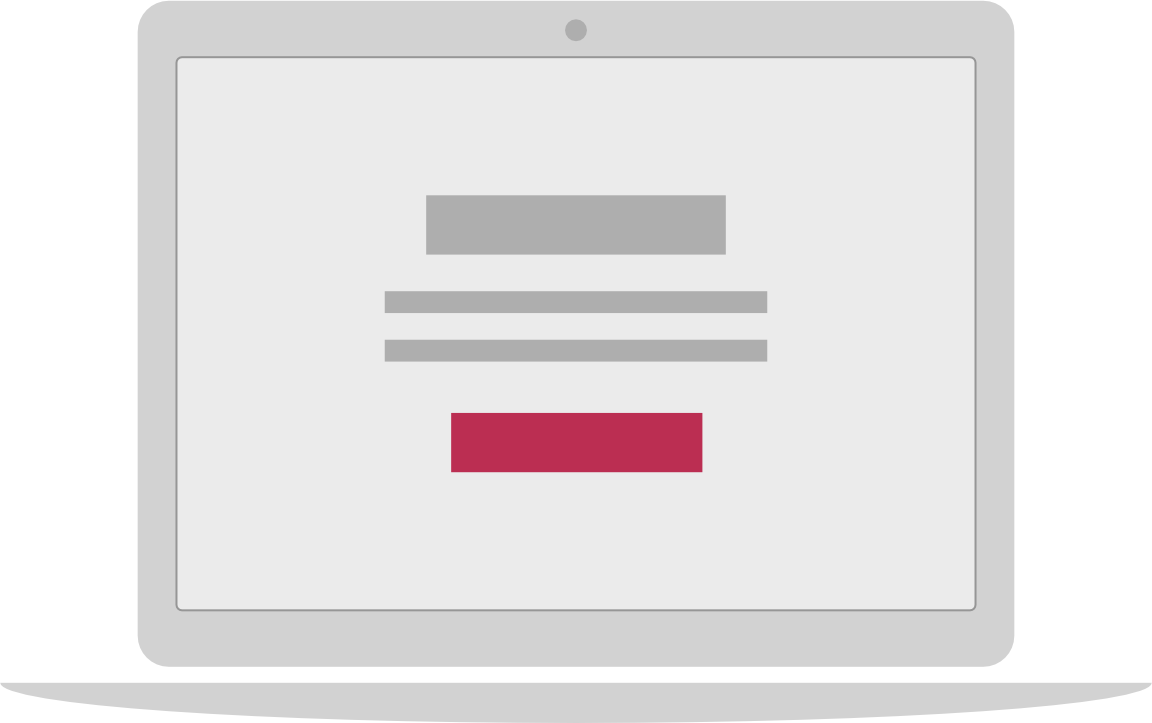
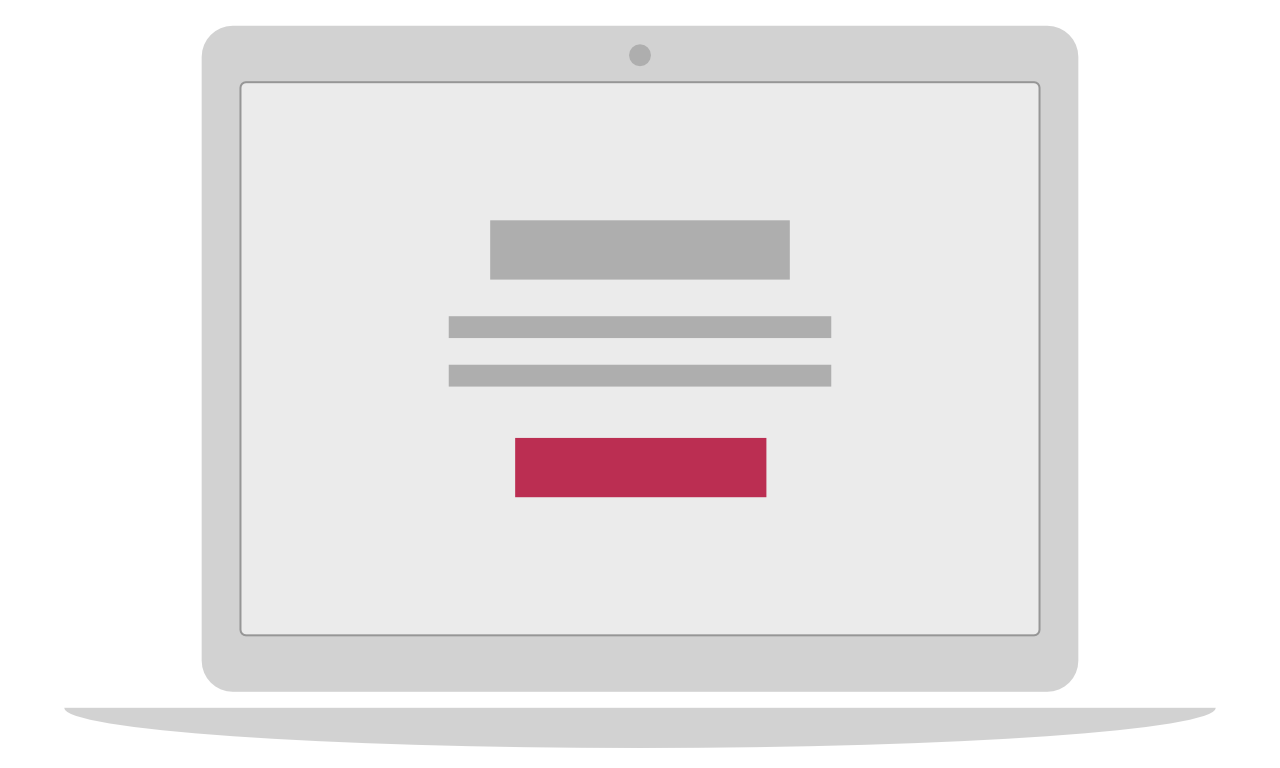
Se cambio el tipo de fuente. Se cambio la imagen del iphone y de la laptop. Se agregaron los iconos faltantes a la lista de cada card.

diff --git a/SegundoTrimestre/ActividadRepaso/css/style.css b/SegundoTrimestre/ActividadRepaso/css/style.css
@@ -2,8 +2,7 @@
 
 body{
     margin: 0;
-    font-family: -apple-system, BlinkMacSystemFont, 'Segoe UI', Roboto, Oxygen, Ubuntu, Cantarell, 'Open Sans', 'Helvetica Neue', sans-serif;
-
+    font-family: "Open Sans", "Segoe UI", "Proxima Nova", "Open Sans", Roboto, Helvetica, -apple-system, system-ui, BlinkMacSystemFont, sans-serif;
 }
 
 a{
@@ -59,7 +58,7 @@ a{
 
 .header .headerImg .headerImgLeft{
     width: 50%;
-    height: 455px;
+    height: 456px;
     padding-left: 180px;
     padding-right: 20px;
     padding-top: 142px;
@@ -68,15 +67,15 @@ a{
 }
 
 .header .headerImg .headerImgLeft h1{
-    font-size: 77px;
+    font-size: 75px;
     color: #fff;
     margin-top: 15px;
     margin-bottom: 45px;
-    line-height: 85px;
+    line-height: 79px;
 }
 
 .header .headerImg .headerImgLeft p{
-    font-size: 21px;
+    font-size: 20px;
     color: #fff;
     margin-top: 0;
     margin-bottom: 40px;
@@ -92,6 +91,7 @@ a{
 .header .headerImg .headerImgLeft .headerImgButtons .buttonLeft{
     width: 53%;
     font-size: 17px;
+    font-weight: bold;
     padding: 13px 0px;
     border-radius: 6px;
     border: 2px #fff solid;
@@ -138,7 +138,7 @@ a{
 } 
 
 .contain .containSection1 h2{
-    font-size: 60px;
+    font-size: 56px;
     color: #f41486;
     margin-top: 0;
     text-align: center;
@@ -155,11 +155,11 @@ a{
 }
 
 .contain .containSection1 .containSection1Contain .containRight{
-    width: 35%;
+    width: 39%;
 }
 
 .contain .containSection1 .containSection1Contain .containRight .subContainRight1 h3{
-    font-size: 42px;
+    font-size: 40px;
     font-weight: normal;
     color: #c72878;
     margin-top: 0;
@@ -168,11 +168,11 @@ a{
 
 .contain .containSection1 .containSection1Contain .containRight .subContainRight1 p{
     color: #3f3f3f;
-    font-size: 17px;
+    font-size: 16px;
 }
 
 .contain .containSection1 .containSection1Contain .containRight .subContainRight2 h3{
-    font-size: 22px;
+    font-size: 21px;
     font-weight: normal;
     color: #f1228b;
     margin-bottom: 0;
@@ -182,10 +182,11 @@ a{
     padding: 0;
     list-style: none;
     color: #3f3f3f;
-    font-size: 17px;
+    font-size: 16px;
     list-style-image: url("../image/cheque.png");
     list-style-position: inside;
     margin-top: 10px;
+    line-height: 26px;
 }
 
  /* CONTENIDO SECCION 2 */
@@ -197,9 +198,9 @@ a{
  }
 
  .contain .containSection2 h2{
-     font-size: 58px;
+     font-size: 56px;
      margin-top: 0;
-     margin-bottom: 34px;
+     margin-bottom: 32px;
  }
 
  .contain .containSection2 p{
@@ -207,7 +208,8 @@ a{
      margin-bottom: 55px;
      padding: 0 130px;
      color: #f1f2f7;
-     font-size: 17px;
+     font-size: 16px;
+     line-height: 24px;
  }
 
  .contain .containSection2 .containSection2Cards{
@@ -232,7 +234,7 @@ a{
  .contain .containSection2 .containSection2Cards .card .cardHeader h4{
      margin-top: 0px;
      font-size: 21px;
-     
+     margin-bottom: 14px;
  }
 
  .contain .containSection2 .containSection2Cards .card .cardHeader .cardHeaderPrice{
@@ -251,12 +253,25 @@ a{
     width: 65%;
     padding-left: 55px;
     list-style: none;
-    list-style-image: url("../image/senal-de-garrapata.png");
+    list-style-image: url("../image/check.png");
     list-style-position: outside;
+    font-size: 16px;
+}
+
+.contain .containSection2 .containSection2Cards .card .cardContain ul li:first-child{
+    list-style-image: url("../image/star.png");
+}
+
+.contain .containSection2 .containSection2Cards .card .cardContain ul li:last-child{
+    list-style-image: url("../image/close.png");
+}
+
+.contain .containSection2 .containSection2Cards .card:first-child .cardContain ul li:first-child{
+    list-style-image: url("../image/star2.png");
 }
 
 .contain .containSection2 .containSection2Cards .card:first-child .cardContain ul{
-    list-style-image: url("../image/senal-de-garrapata2.png");
+    list-style-image: url("../image/check2.png");
 }
 
 .contain .containSection2 .containSection2Cards .card .cardContain ul li{
@@ -276,7 +291,7 @@ a{
     background-color: #2e2550;
     border: none;
     font-size: 17px;
-    padding: 13px 20px;
+    padding: 13px 24px;
     border-radius: 4px;
 }
 
@@ -292,6 +307,7 @@ a{
     align-items: center;
     padding: 35px 180px;
     color: #272727;
+    opacity: 0.74;
 }
 
 .footer p{
@@ -301,6 +317,7 @@ a{
 
 .footer span{
     color: #f1228b;
+    font-weight: bold;
 }
 
 .footer .footerIcons{

diff --git a/SegundoTrimestre/ActividadRepaso/index.html b/SegundoTrimestre/ActividadRepaso/index.html
@@ -60,7 +60,7 @@
             </div>
         </section>
         <section class="containSection2">
-            <h2>Plans & Princing</h2>
+            <h2>Plans & Pricing</h2>
             <p>Lorem ipsum dolor sit amet, consectetur adipiscing elit. Mauris aliquet malesuada feugiat. Curabitur fermentum bibendum nulla, non dictum ipsum tincidunt non. Quisque convallis pharetra tempor. Donec id pretium leo. Pellentesque luctus massa non elit viverra pellentesque. Cras vitae neque molestie, rhoncus ipsum sit amet, lobortis dui. Fusce in urna sem.</p>
 
             <div class="containSection2Cards">
